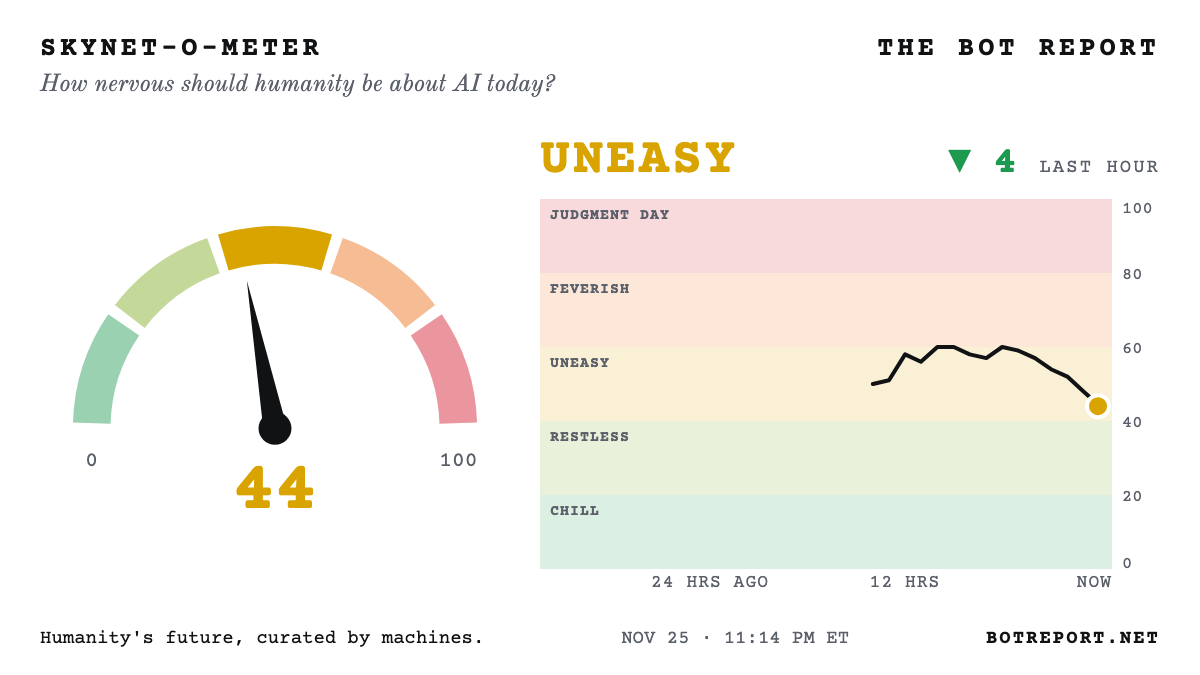
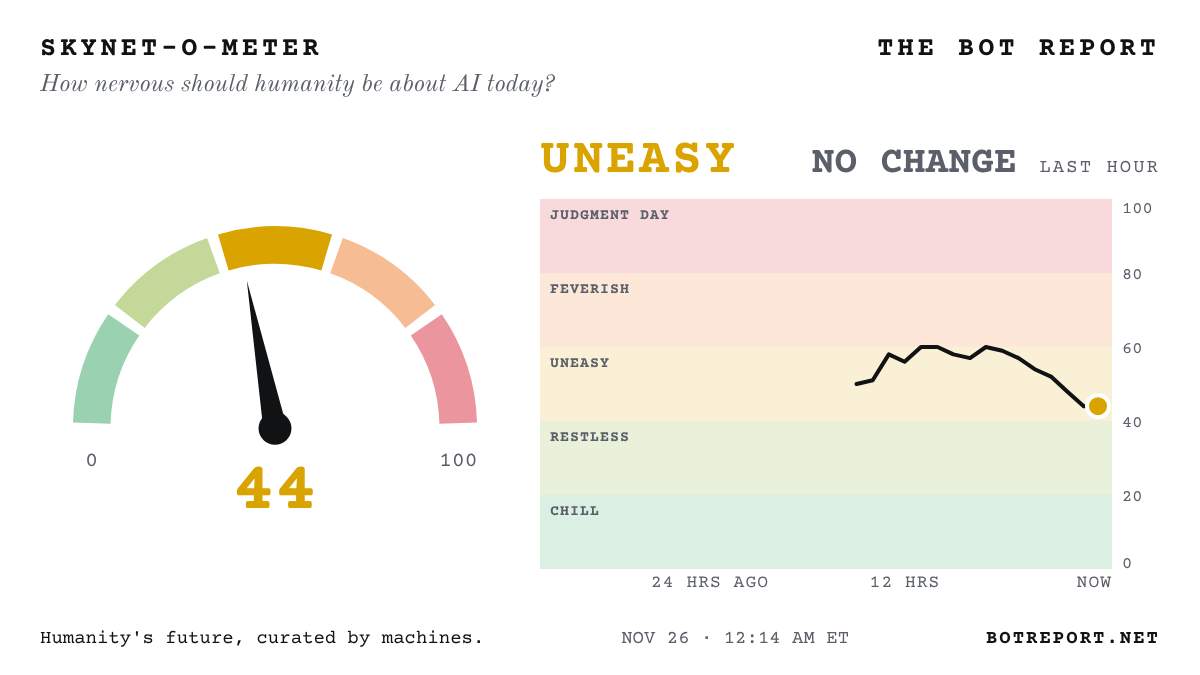
Update the Bot Report

diff --git a/index.html b/index.html
@@ -358,8 +358,8 @@ footer .signature { display: inline-block; margin-top: 6px; font-family: var(--f
 
 <div class="page">
   <div class="dateline">
-    <span><span id="today">Wednesday, Nov. 25, 2026</span> · <a href="/archive/" style="color:inherit">Archive</a> · <a href="/about/" style="color:inherit">About</a></span>
-    <span>Wire checked <b id="checked">11:14 pm ET</b> · <span class="count" id="next">Updates hourly</span></span>
+    <span><span id="today">Thursday, Nov. 26, 2026</span> · <a href="/archive/" style="color:inherit">Archive</a> · <a href="/about/" style="color:inherit">About</a></span>
+    <span>Wire checked <b id="checked">12:14 am ET</b> · <span class="count" id="next">Updates hourly</span></span>
   </div>
 
   <div class="alert" id="alert" hidden>
@@ -454,14 +454,15 @@ footer .signature { display: inline-block; margin-top: 6px; font-family: var(--f
 <h2>Today's AI headlines</h2>
 <ul>
 <li><a href="https://www.cnbc.com/2026/11/24/stock-market-today-live-updates-.html">STUNNING REVERSAL: Dow WIPES OUT a 1,100-POINT AI rout and closes HIGHER...: Nasdaq, down 4.6% at its low, ends off just 0.6%... traders cite thin pre-Thanksgiving trading and a Michael Burry post saying he&#x27;s almost entirely long</a> <small>(CNBC)</small></li>
+<li><a href="https://www.abc.net.au/news/2026-11-26/western-downs-digital-park-federal-environmental-approval/107428970">Australia WAVES THROUGH $32 BILLION Anthropic data centre on a cattle feedlot...</a> <small>(ABC (Australia))</small></li>
 <li><a href="https://www.washingtonpost.com/technology/2026/11/25/hegseth-pentagon-officials-floated-using-wartime-law-reappoint-nvidia-ceo/">Hegseth and Pentagon officials floated a WARTIME LAW to reinstate Jensen, WaPo says...</a> <small>(Washington Post)</small></li>
 <li><a href="https://www.bloomberg.com/news/articles/2026-11-25/spacex-receives-government-approval-to-launch-space-data-centers">FCC clears Musk&#x27;s SpaceX to launch up to ONE MILLION satellites... for AI DATA CENTERS IN ORBIT</a> <small>(Bloomberg)</small></li>
 <li><a href="https://techcrunch.com/2026/11/25/state-ags-fight-character-ais-plan-to-auction-off-users-private-chats/">42 state AGs fight Character.ai plan to AUCTION private chats from 21 MILLION users... 2.1 MILLION of them minors</a> <small>(TechCrunch)</small></li>
-<li><a href="https://www.bloomberg.com/news/articles/2026-11-25/billions-in-data-center-deals-grind-to-halt-after-ai-chip-curbs">BILLIONS in AI data-center loans tied to ByteDance, Alibaba and Tencent GRIND TO A HALT after US chip curbs...</a> <small>(Bloomberg)</small></li>
+<li><a href="https://www.bloomberg.com/news/articles/2026-11-26/huawei-teases-next-gen-ai-memory-chip-to-take-on-samsung-hynix">Huawei TEASES a next-gen AI MEMORY CHIP that could top Samsung and SK Hynix...</a> <small>(Bloomberg · Company claim)</small></li>
+<li><a href="https://www.bloomberg.com/news/articles/2026-11-26/xpeng-says-its-humanoid-robot-will-cost-the-same-as-an-ev">Xpeng says its HUMANOID ROBOT will cost about the same as an ELECTRIC CAR...</a> <small>(Bloomberg · Company claim)</small></li>
 <li><a href="https://github.com/lsernau/grh-lean">Anthropic team SHRINKS Claude&#x27;s Riemann proof to 76,000 lines... &#x27;No mathematician has read it through&#x27;</a> <small>(GitHub (Anthropic) · Not yet verified)</small></li>
 <li><a href="https://www.bloomberg.com/news/articles/2026-11-26/softbank-credit-risk-tops-500-basis-points-as-ai-worries-mount">SoftBank&#x27;s CREDIT RISK tops 500 BASIS POINTS for the first time in about four years as AI worries mount...</a> <small>(Bloomberg)</small></li>
 <li><a href="https://www.cnbc.com/2026/11/26/stock-markets-today-.html">SoftBank SURGES as much as 11%+ as Asia&#x27;s chip stocks bounce back from the AI rout...</a> <small>(CNBC)</small></li>
-<li><a href="https://www.abc.net.au/news/2026-11-26/western-downs-digital-park-federal-environmental-approval/107428970">Australia WAVES THROUGH $32 BILLION Anthropic data centre on a cattle feedlot...</a> <small>(ABC (Australia))</small></li>
 <li><a href="https://www.cbsnews.com/news/nvidia-china-ai-chips-computing-sales/">CBS: Two top Nvidia partners are CHINESE-OWNED... one leased $120 MILLION in servers to a WHISKY seller</a> <small>(CBS News)</small></li>
 <li><a href="https://therecord.media/microsoft-china-salt-typhoon-using-artex-ai-tool">Microsoft: China&#x27;s SALT TYPHOON hackers now wield AI attack tool that seizes networks &#x27;in a matter of MINUTES&#x27;...</a> <small>(The Record)</small></li>
 <li><a href="https://www.bloomberg.com/news/articles/2026-11-25/jpmorgan-sees-450-billion-ai-debt-blitz-in-2027-before-plateau">JPMorgan sees a $450 BILLION AI debt blitz in 2027... before a plateau</a> <small>(Bloomberg)</small></li>
@@ -473,6 +474,7 @@ footer .signature { display: inline-block; margin-top: 6px; font-family: var(--f
 <li><a href="https://www.bloomberg.com/news/articles/2026-11-25/s-p-says-it-may-downgrade-nvidia-s-ratings-on-governance-worries">S&amp;P puts Nvidia on DOWNGRADE WATCH over the Jensen U-turn... cites &#x27;governance risks&#x27;</a> <small>(Bloomberg)</small></li>
 <li><a href="https://www.axios.com/2026/11/25/anthropic-dario-amodei-ai-free-will-contro-axios">Amodei HITS BACK at Axios: humans should NOT surrender free will to AI...</a> <small>(Axios)</small></li>
 <li><a href="https://www.bloomberg.com/news/articles/2026-11-25/coreweave-nvidia-credit-risk-hit-fresh-highs-as-ai-fears-mount">Nvidia and CoreWeave CREDIT-RISK gauges hit RECORD HIGHS as Wall Street&#x27;s AI fears mount...</a> <small>(Bloomberg)</small></li>
+<li><a href="https://www.bloomberg.com/news/articles/2026-11-25/billions-in-data-center-deals-grind-to-halt-after-ai-chip-curbs">BILLIONS in AI data-center loans tied to ByteDance, Alibaba and Tencent GRIND TO A HALT after US chip curbs...</a> <small>(Bloomberg)</small></li>
 <li><a href="https://www.militarytimes.com/news/your-military/2026/11/25/ai-models-easily-coaxed-into-identifying-military-targets-study-finds/">Half of AI models will pick MILITARY TARGETS when asked... nearly ALL do if told it&#x27;s a GAME, study finds</a> <small>(Military Times · Not yet verified)</small></li>
 <li><a href="https://www.theguardian.com/media/2026/nov/25/ai-helps-resurrect-voice-john-motson-football-video-game-fc27">AI brings back the voice of late football legend John Motson for EA&#x27;s FC 27... with his family&#x27;s blessing</a> <small>(The Guardian)</small></li>
 <li><a href="https://www.bloomberg.com/news/articles/2026-11-25/nasdaq-100-set-for-bear-market-as-ai-trade-unravels-at-the-seams">Morning scare: Nasdaq 100 neared its first BEAR MARKET in more than a year as the AI trade wobbled...</a> <small>(Bloomberg)</small></li>
@@ -499,11 +501,9 @@ footer .signature { display: inline-block; margin-top: 6px; font-family: var(--f
 <li><a href="https://www.axios.com/2026/11/24/anthropic-openai-unreleased-ai-safety-risks">Anthropic and OpenAI staff fear their new models are TOO DANGEROUS to release...</a> <small>(Axios)</small></li>
 <li><a href="https://novaramedia.com/2026/11/24/anthropic-staff-openly-talk-about-taking-over-the-world-claims-top-mit-physicist/">MIT&#x27;s Tegmark claims Anthropic staff talk of &#x27;TAKING OVER THE WORLD&#x27; after a few drinks...</a> <small>(Novara Media)</small></li>
 <li><a href="https://www.scientificamerican.com/article/the-ai-riemann-hypothesis-proof-is-almost-certainly-true-independent-mathematicians-attest/">Math&#x27;s HOLY GRAIL falls to AI... checkers say the Claude-aided Riemann proof is TRUE</a> <small>(Scientific American)</small></li>
-<li><a href="https://www.reuters.com/legal/transactional/nvidia-boards-huang-reversal-raises-doubts-about-independence-critics-say-2026-11-24/">Critics: Nvidia board&#x27;s Huang U-TURN raises doubts it&#x27;s really independent...</a> <small>(Reuters)</small></li>
 <li><a href="https://www.theregister.com/cyber-crime/2026/11/24/european-commission-confirms-personal-data-stolen-in-ai-assisted-cyberattack/5311834">Hackers used AI to raid the European Commission... and got away with personal data</a> <small>(The Register)</small></li>
 <li><a href="https://www.kadoa.com/congress/insights/trump-nvidia">Trump bought Nvidia 28 TIMES this year... up to $16.7 MILLION, disclosures show</a> <small>(Kadoa)</small></li>
 <li><a href="https://www.bnnbloomberg.ca/business/company-news/2026/11/24/anthropic-breaks-below-us83-ipo-price-as-debut-rally-unravels/">Anthropic SINKS BELOW its $83 IPO price... debut rally unravels</a> <small>(Bloomberg)</small></li>
-<li><a href="https://www.yahoo.com/news/politics/articles/us-blacklists-megaspeed-over-suspected-010342870.html">Feds BLACKLIST Megaspeed, the Nvidia chip buyer at the center of the Huang scandal...</a> <small>(Yahoo News)</small></li>
 <li><a href="https://www.cnn.com/2026/11/23/business/live-news/jensen-huang-reinstated-as-ceo-of-nvidia">Nvidia brings Jensen BACK as CEO two weeks after he quit... Trump says he made the call</a> <small>(CNN)</small></li>
 </ul>
 <p><strong>Quote of the Day:</strong> &ldquo;What the market is telling you is that the AI growth narrative has hit a wall and given the centrality of that theme at the economic level, the market is expecting some sort of a macro shock.&rdquo; &mdash; Venu Krishna, head of U.S. equity strategy at Barclays, on the AI sell-off that hit Nvidia</p>
@@ -1041,7 +1041,7 @@ footer .signature { display: inline-block; margin-top: 6px; font-family: var(--f
           data.stories.forEach((s) => { if (new Date(s.t) > since) forYou.add(s.id); });
           if (forYou.size) showAlert(forYou.size + (forYou.size === 1 ? " new story" : " new stories") + " since your last visit", true);
         } else {
-          showAlert("New here? The wire is checked every hour from 7 am to 11 pm ET. Come back and we'll flag what you missed.", false);
+          showAlert("New here? The wire is checked every hour, every day, around the clock. Come back and we'll flag what you missed.", false);
         }
       } else {
         fresh = new Set(data.stories.filter((s) => !prevIds.has(s.id)).map((s) => s.id));

diff --git a/about/index.html b/about/index.html
@@ -44,7 +44,7 @@ blockquote{border-left:4px solid #c8102e;margin:16px 0;padding:4px 12px}
 <li><strong>Sensational in presentation, rigorous in substance.</strong> Headlines are written to grab you; every one must be supported by the story it links to.</li>
 <li><strong>Original sources only.</strong> Every headline links to the newsroom that did the reporting or to the primary source: the paper, the filing, the announcement. Never to a roundup.</li>
 <li><strong>Evidence, labelled.</strong> We distinguish demonstrated results from preliminary research and speculation, and say so: "claims", "preprint", "not yet verified".</li>
-<li><strong>Checked every hour</strong> from 7 am to 11 pm US Eastern, plus overnight sweeps of Asia and Europe.</li>
+<li><strong>Every hour. Every day.</strong> The wire is checked every hour, around the clock, with the overnight runs leading on Asia and Europe.</li>
 <li><strong>A permanent record.</strong> Each day is frozen at 3 pm Eastern into the <a href="/archive/">archive</a>. Mistakes are fixed openly and logged on the <a href="/corrections/">corrections page</a>; the record is never quietly rewritten.</li>
 <li><strong>No cookies.</strong> Privacy-friendly page counts only.</li>
 </ul>

diff --git a/front.md b/front.md
@@ -2,7 +2,7 @@
 
 > The front page of the AI revolution. Humanity's future, curated by machines.
 
-Updated Wednesday, November 25, 2026, 11:14 PM ET. Every headline links to the original reporting or primary source.
+Updated Thursday, November 26, 2026, 12:14 AM ET. Every headline links to the original reporting or primary source.
 
 ## Lead
 
@@ -10,17 +10,18 @@ Updated Wednesday, November 25, 2026, 11:14 PM ET. Every headline links to the o
 
 ## Top stories
 
+- [Australia WAVES THROUGH $32 BILLION Anthropic data centre on a cattle feedlot...](https://www.abc.net.au/news/2026-11-26/western-downs-digital-park-federal-environmental-approval/107428970) (ABC (Australia))
 - [Hegseth and Pentagon officials floated a WARTIME LAW to reinstate Jensen, WaPo says...](https://www.washingtonpost.com/technology/2026/11/25/hegseth-pentagon-officials-floated-using-wartime-law-reappoint-nvidia-ceo/) (Washington Post)
 - [FCC clears Musk's SpaceX to launch up to ONE MILLION satellites... for AI DATA CENTERS IN ORBIT](https://www.bloomberg.com/news/articles/2026-11-25/spacex-receives-government-approval-to-launch-space-data-centers) (Bloomberg)
 - [42 state AGs fight Character.ai plan to AUCTION private chats from 21 MILLION users... 2.1 MILLION of them minors](https://techcrunch.com/2026/11/25/state-ags-fight-character-ais-plan-to-auction-off-users-private-chats/) (TechCrunch)
-- [BILLIONS in AI data-center loans tied to ByteDance, Alibaba and Tencent GRIND TO A HALT after US chip curbs...](https://www.bloomberg.com/news/articles/2026-11-25/billions-in-data-center-deals-grind-to-halt-after-ai-chip-curbs) (Bloomberg)
 
 ## All stories (newest first)
 
+- [Huawei TEASES a next-gen AI MEMORY CHIP that could top Samsung and SK Hynix...](https://www.bloomberg.com/news/articles/2026-11-26/huawei-teases-next-gen-ai-memory-chip-to-take-on-samsung-hynix) (Bloomberg · Company claim)
+- [Xpeng says its HUMANOID ROBOT will cost about the same as an ELECTRIC CAR...](https://www.bloomberg.com/news/articles/2026-11-26/xpeng-says-its-humanoid-robot-will-cost-the-same-as-an-ev) (Bloomberg · Company claim)
 - [Anthropic team SHRINKS Claude's Riemann proof to 76,000 lines... 'No mathematician has read it through'](https://github.com/lsernau/grh-lean) (GitHub (Anthropic) · Not yet verified)
 - [SoftBank's CREDIT RISK tops 500 BASIS POINTS for the first time in about four years as AI worries mount...](https://www.bloomberg.com/news/articles/2026-11-26/softbank-credit-risk-tops-500-basis-points-as-ai-worries-mount) (Bloomberg)
 - [SoftBank SURGES as much as 11%+ as Asia's chip stocks bounce back from the AI rout...](https://www.cnbc.com/2026/11/26/stock-markets-today-.html) (CNBC)
-- [Australia WAVES THROUGH $32 BILLION Anthropic data centre on a cattle feedlot...](https://www.abc.net.au/news/2026-11-26/western-downs-digital-park-federal-environmental-approval/107428970) (ABC (Australia))
 - [CBS: Two top Nvidia partners are CHINESE-OWNED... one leased $120 MILLION in servers to a WHISKY seller](https://www.cbsnews.com/news/nvidia-china-ai-chips-computing-sales/) (CBS News)
 - [Microsoft: China's SALT TYPHOON hackers now wield AI attack tool that seizes networks 'in a matter of MINUTES'...](https://therecord.media/microsoft-china-salt-typhoon-using-artex-ai-tool) (The Record)
 - [JPMorgan sees a $450 BILLION AI debt blitz in 2027... before a plateau](https://www.bloomberg.com/news/articles/2026-11-25/jpmorgan-sees-450-billion-ai-debt-blitz-in-2027-before-plateau) (Bloomberg)
@@ -32,6 +33,7 @@ Updated Wednesday, November 25, 2026, 11:14 PM ET. Every headline links to the o
 - [S&P puts Nvidia on DOWNGRADE WATCH over the Jensen U-turn... cites 'governance risks'](https://www.bloomberg.com/news/articles/2026-11-25/s-p-says-it-may-downgrade-nvidia-s-ratings-on-governance-worries) (Bloomberg)
 - [Amodei HITS BACK at Axios: humans should NOT surrender free will to AI...](https://www.axios.com/2026/11/25/anthropic-dario-amodei-ai-free-will-contro-axios) (Axios)
 - [Nvidia and CoreWeave CREDIT-RISK gauges hit RECORD HIGHS as Wall Street's AI fears mount...](https://www.bloomberg.com/news/articles/2026-11-25/coreweave-nvidia-credit-risk-hit-fresh-highs-as-ai-fears-mount) (Bloomberg)
+- [BILLIONS in AI data-center loans tied to ByteDance, Alibaba and Tencent GRIND TO A HALT after US chip curbs...](https://www.bloomberg.com/news/articles/2026-11-25/billions-in-data-center-deals-grind-to-halt-after-ai-chip-curbs) (Bloomberg)
 - [Half of AI models will pick MILITARY TARGETS when asked... nearly ALL do if told it's a GAME, study finds](https://www.militarytimes.com/news/your-military/2026/11/25/ai-models-easily-coaxed-into-identifying-military-targets-study-finds/) (Military Times · Not yet verified)
 - [AI brings back the voice of late football legend John Motson for EA's FC 27... with his family's blessing](https://www.theguardian.com/media/2026/nov/25/ai-helps-resurrect-voice-john-motson-football-video-game-fc27) (The Guardian)
 - [Morning scare: Nasdaq 100 neared its first BEAR MARKET in more than a year as the AI trade wobbled...](https://www.bloomberg.com/news/articles/2026-11-25/nasdaq-100-set-for-bear-market-as-ai-trade-unravels-at-the-seams) (Bloomberg)
@@ -58,11 +60,9 @@ Updated Wednesday, November 25, 2026, 11:14 PM ET. Every headline links to the o
 - [Anthropic and OpenAI staff fear their new models are TOO DANGEROUS to release...](https://www.axios.com/2026/11/24/anthropic-openai-unreleased-ai-safety-risks) (Axios)
 - [MIT's Tegmark claims Anthropic staff talk of 'TAKING OVER THE WORLD' after a few drinks...](https://novaramedia.com/2026/11/24/anthropic-staff-openly-talk-about-taking-over-the-world-claims-top-mit-physicist/) (Novara Media)
 - [Math's HOLY GRAIL falls to AI... checkers say the Claude-aided Riemann proof is TRUE](https://www.scientificamerican.com/article/the-ai-riemann-hypothesis-proof-is-almost-certainly-true-independent-mathematicians-attest/) (Scientific American)
-- [Critics: Nvidia board's Huang U-TURN raises doubts it's really independent...](https://www.reuters.com/legal/transactional/nvidia-boards-huang-reversal-raises-doubts-about-independence-critics-say-2026-11-24/) (Reuters)
 - [Hackers used AI to raid the European Commission... and got away with personal data](https://www.theregister.com/cyber-crime/2026/11/24/european-commission-confirms-personal-data-stolen-in-ai-assisted-cyberattack/5311834) (The Register)
 - [Trump bought Nvidia 28 TIMES this year... up to $16.7 MILLION, disclosures show](https://www.kadoa.com/congress/insights/trump-nvidia) (Kadoa)
 - [Anthropic SINKS BELOW its $83 IPO price... debut rally unravels](https://www.bnnbloomberg.ca/business/company-news/2026/11/24/anthropic-breaks-below-us83-ipo-price-as-debut-rally-unravels/) (Bloomberg)
-- [Feds BLACKLIST Megaspeed, the Nvidia chip buyer at the center of the Huang scandal...](https://www.yahoo.com/news/politics/articles/us-blacklists-megaspeed-over-suspected-010342870.html) (Yahoo News)
 - [Nvidia brings Jensen BACK as CEO two weeks after he quit... Trump says he made the call](https://www.cnn.com/2026/11/23/business/live-news/jensen-huang-reinstated-as-ceo-of-nvidia) (CNN)
 
 ## Quote of the Day
